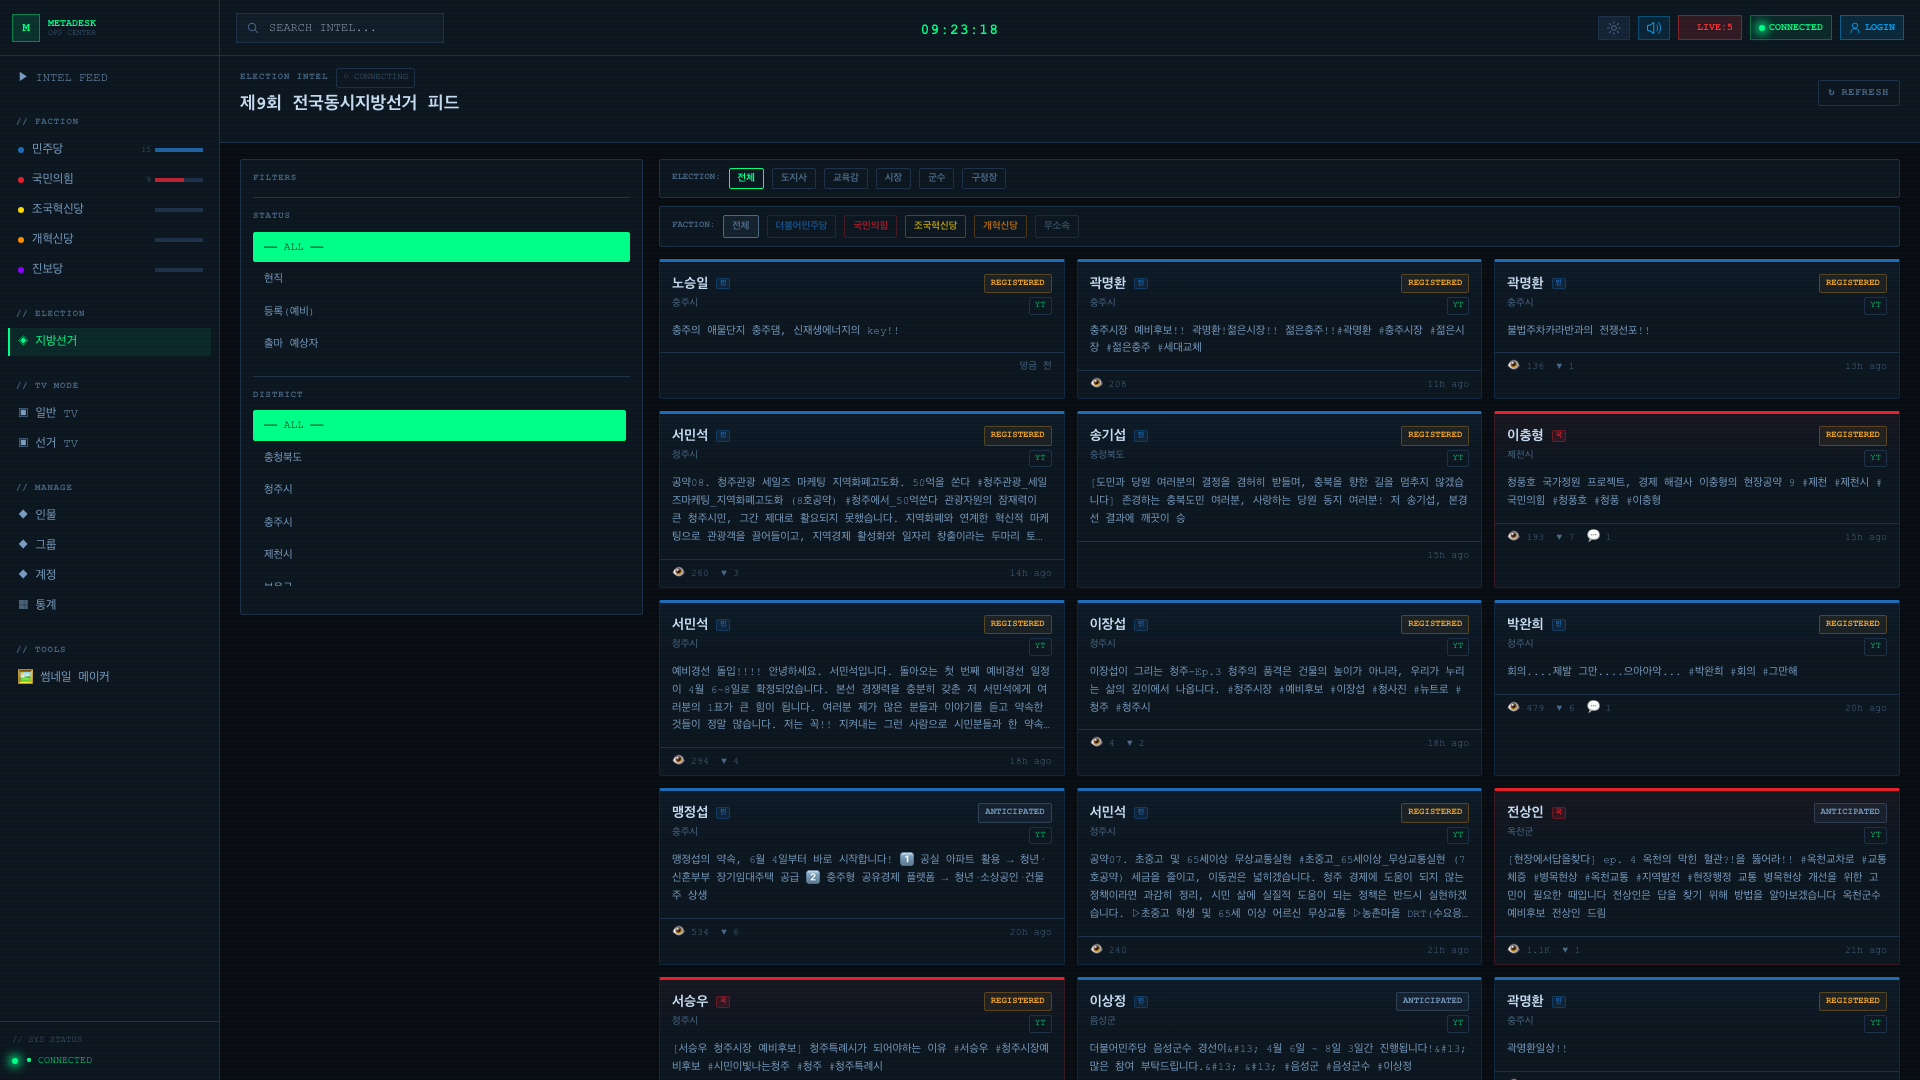
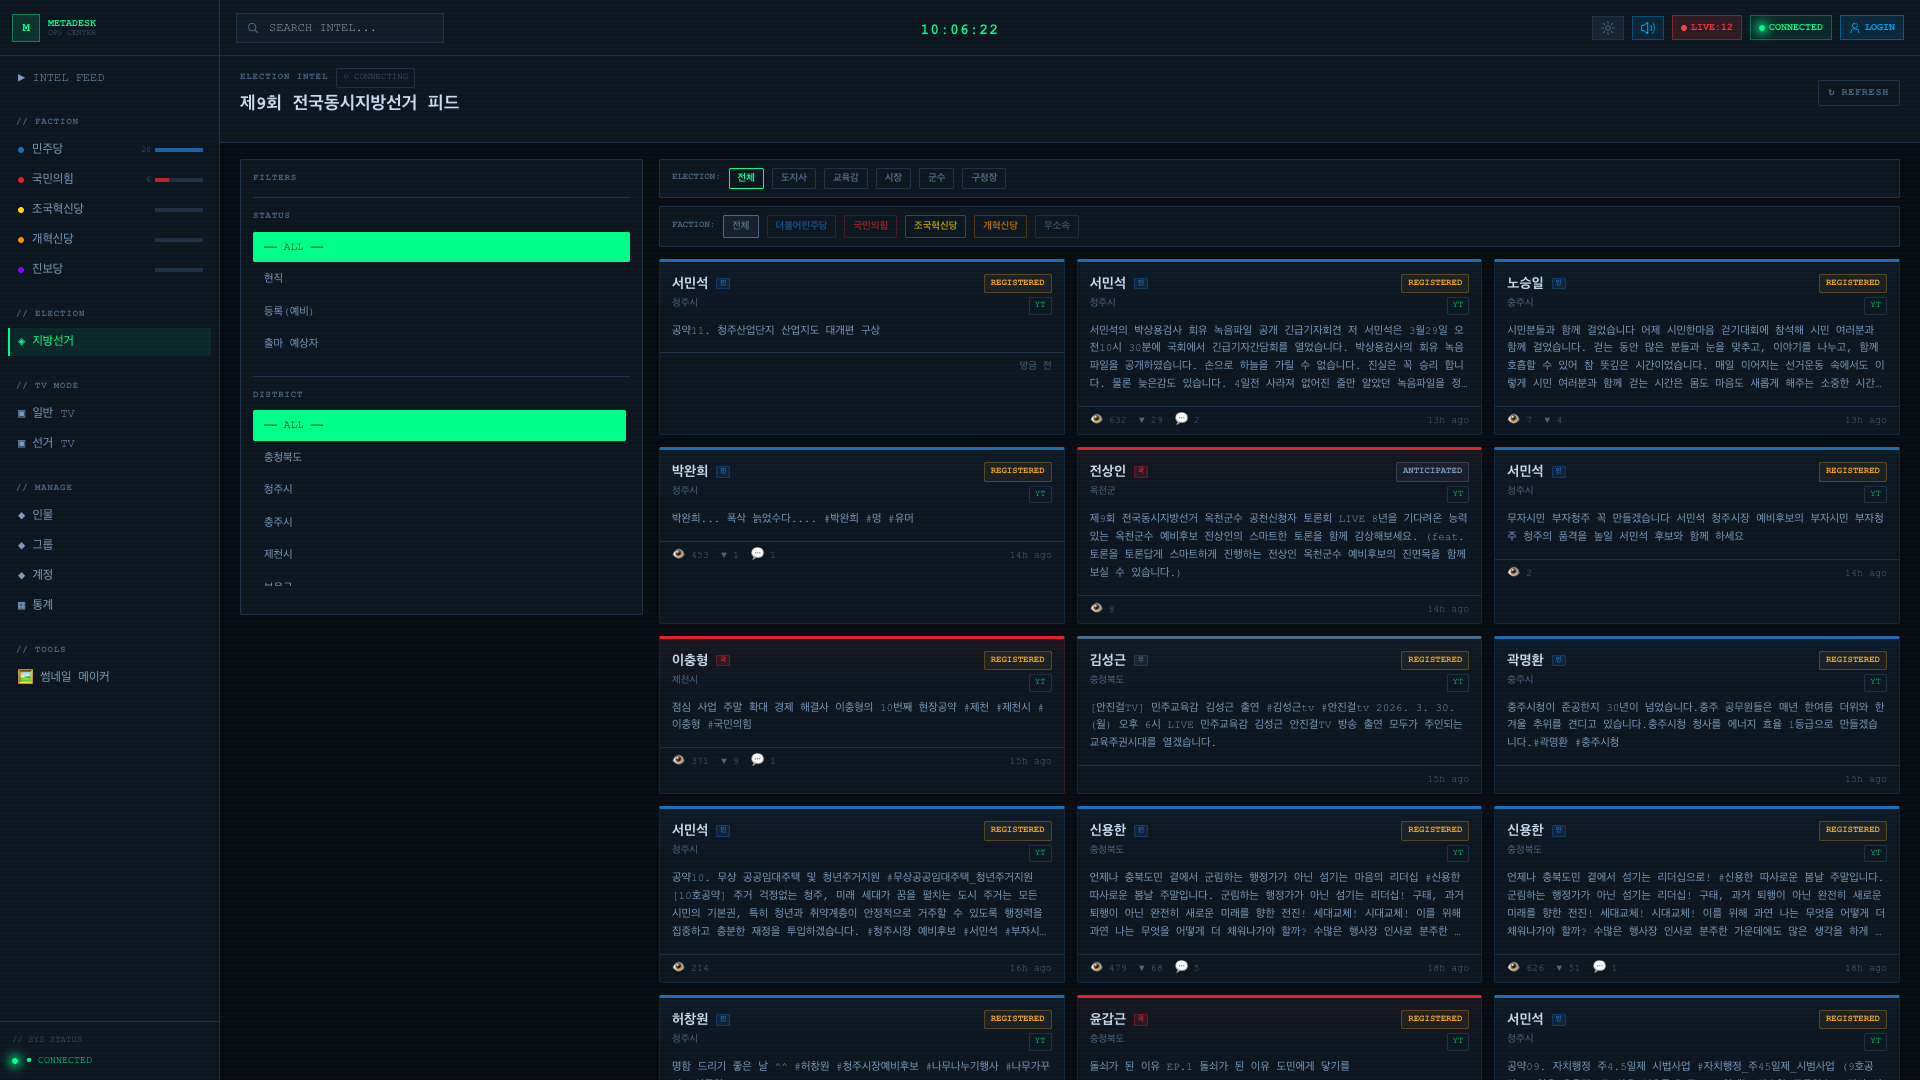
선거 TV 스크린샷 추가 + 슬라이드 2장 (S34b, S34c) 삽입

diff --git a/index.html b/index.html
@@ -650,6 +650,28 @@ html, body { width: 100%; height: 100%; overflow: hidden; background: #0a0e17; c
   </div>
 </div>
 
+<!-- S34b: 선거 TV 모드 전체 -->
+<div class="slide slide-bg" id="s34b" style="background-image:url('screenshots/10-election-tv.png');">
+  <div class="title-med mb-24">선거 TV 모드</div>
+  
+</div>
+
+<!-- S34c: 선거 TV 설명 -->
+<div class="slide slide-bg" id="s34c" style="background-image:url('screenshots/10-election-tv.png');">
+  <div class="glass glass-right">
+    <div>
+      <div class="badge badge-green mb-16">선거 TV MODE</div>
+      <div class="title-med" style="font-size:36px;">보도국 벽면에<br>선거 현황을 띄웁니다</div>
+      <div class="body-med mt-24" style="font-size:22px; line-height:1.8;">
+        후보별 SNS 활동량을<br>
+        <strong style="color:#00ff88;">한눈에 비교</strong>할 수 있습니다.<br><br>
+        선거일에는 실시간으로<br>
+        후보 동향을 관제합니다.
+      </div>
+    </div>
+  </div>
+</div>
+
 <!-- S35: 지역 드릴다운 -->
 <div class="slide" id="s35">
   <div class="title-med mb-24">지역 드릴다운</div>
